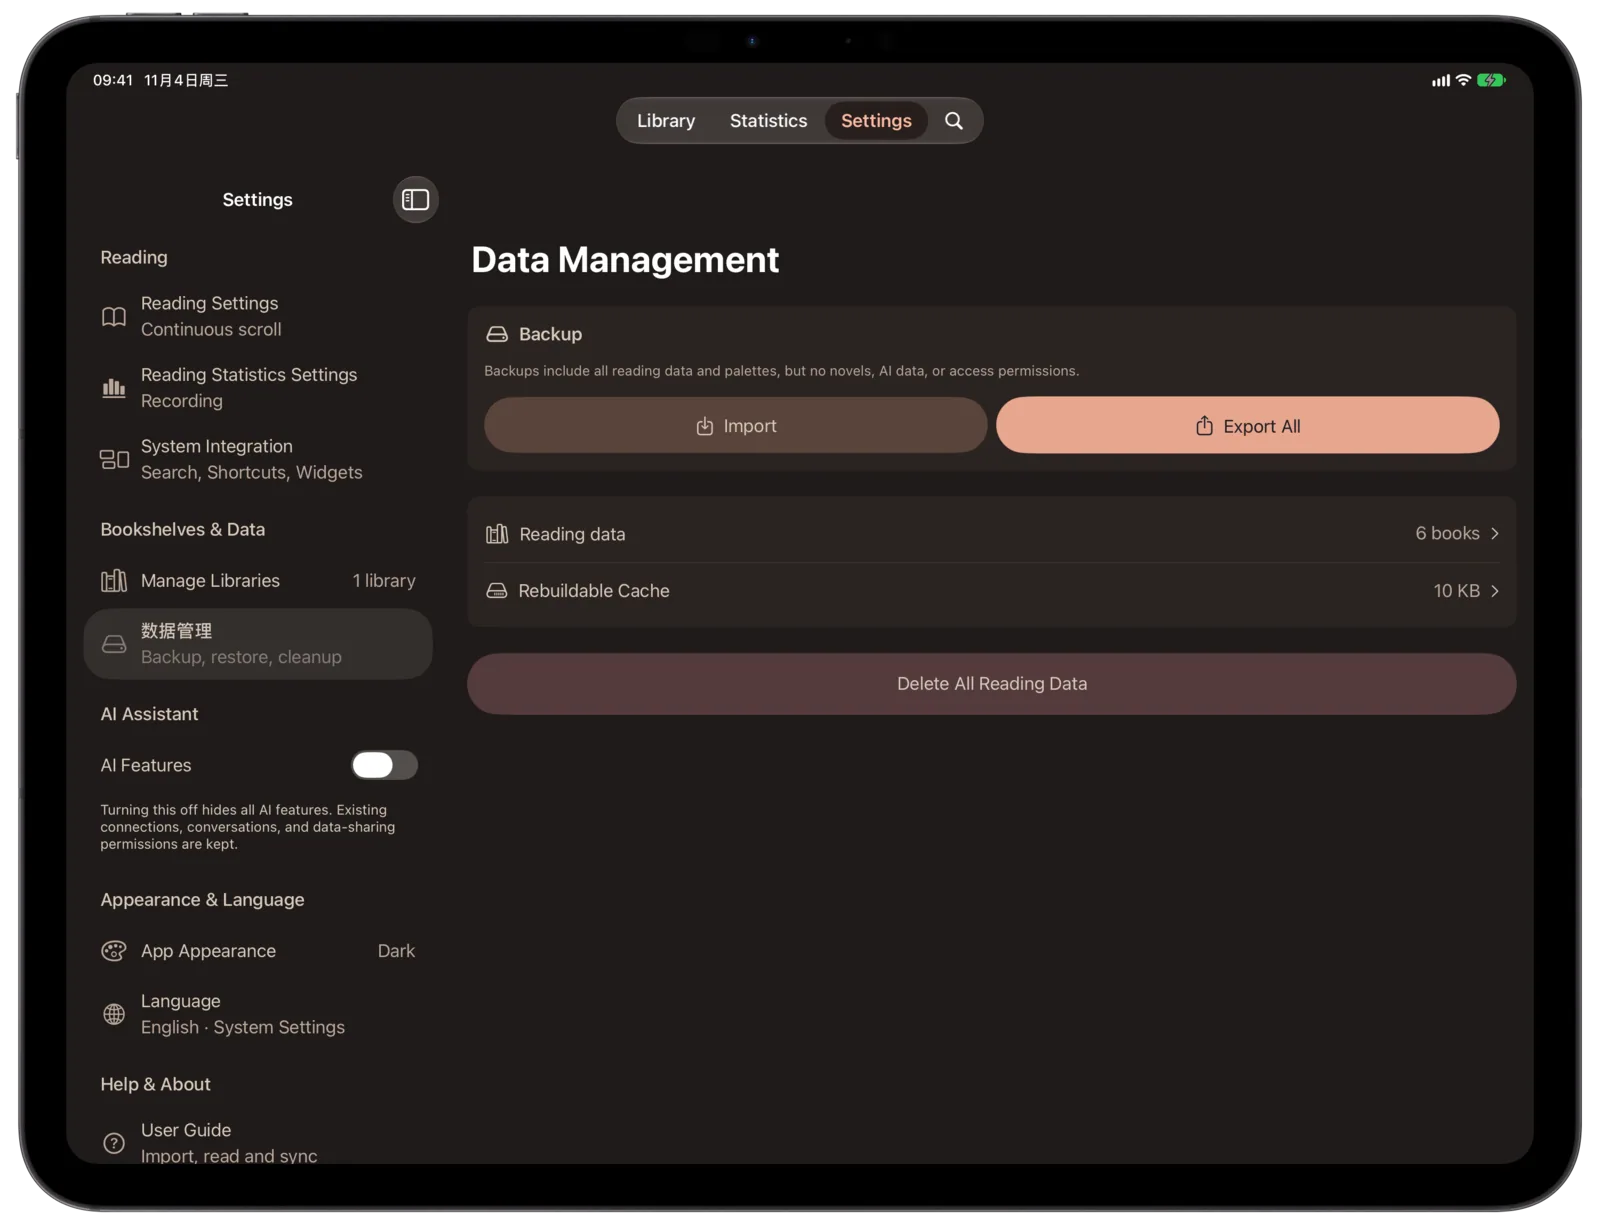
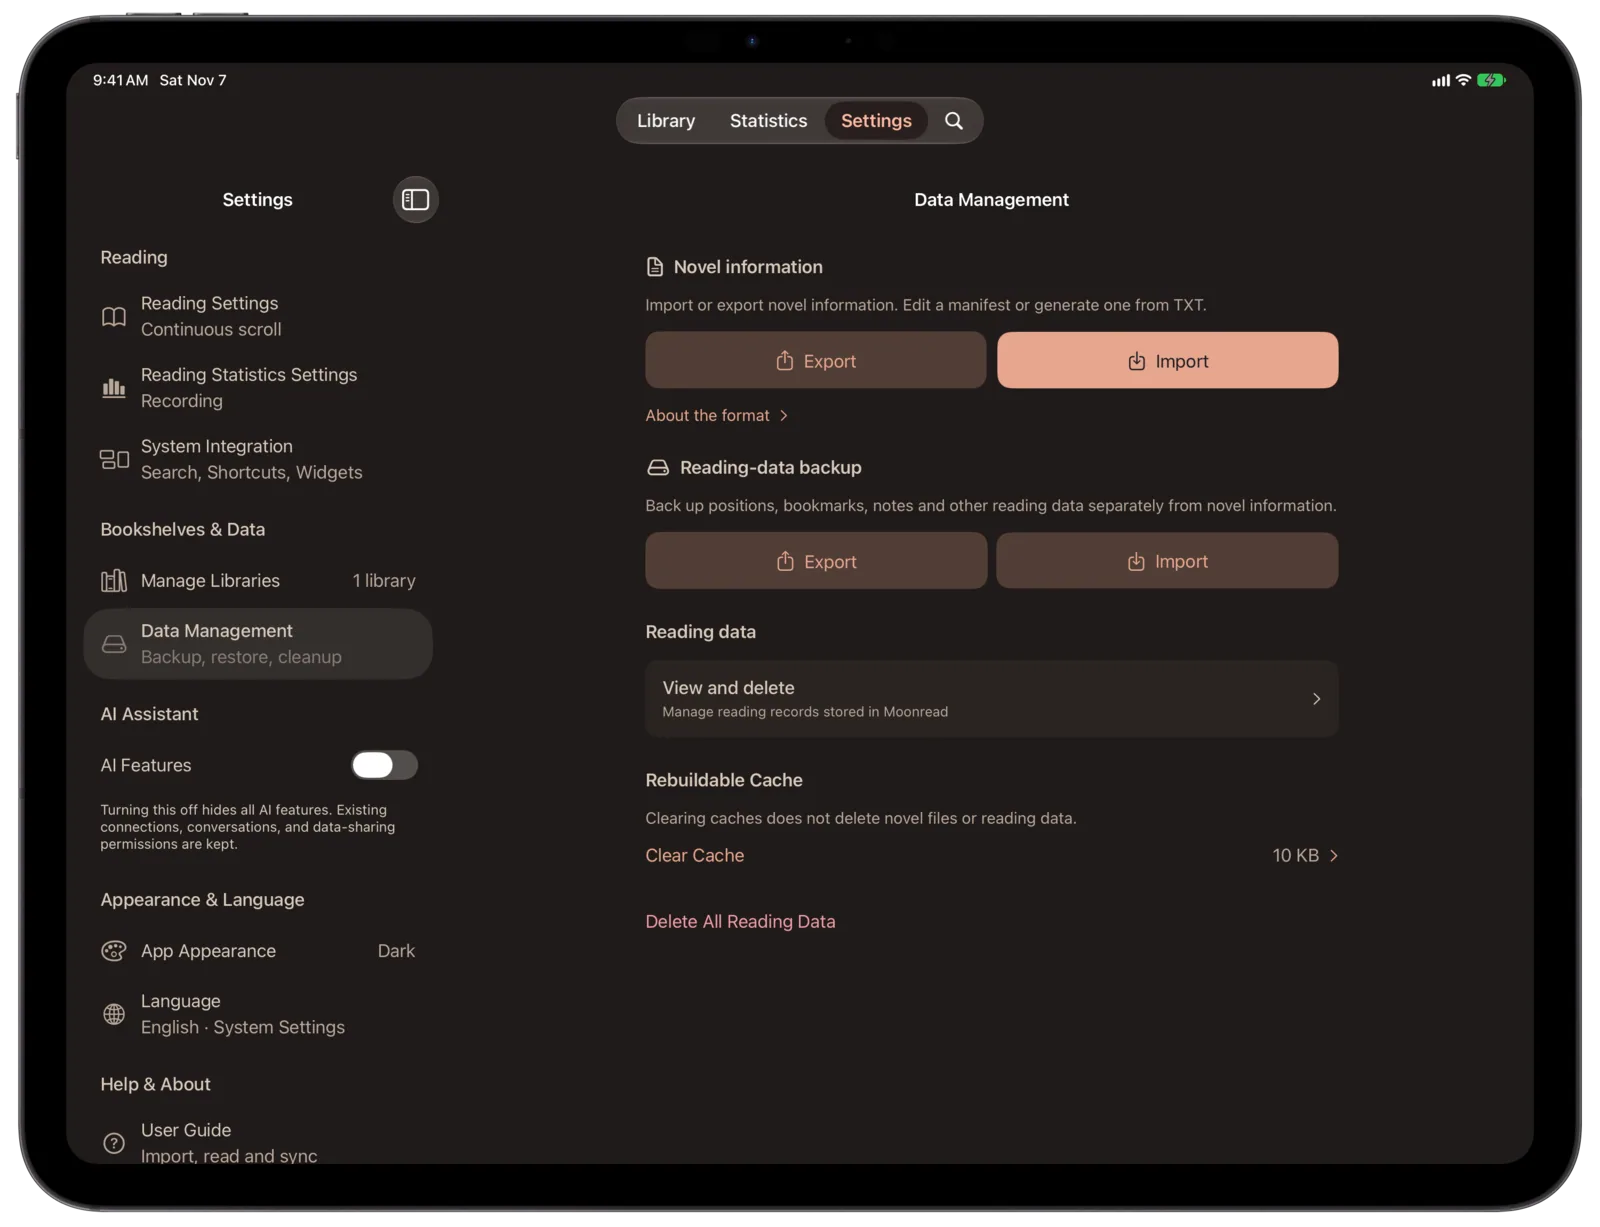
feat(site): 英文数据管理截图换用修复后的 1.5 新图 (#209)

diff --git a/docs/site/README.md b/docs/site/README.md
@@ -24,7 +24,7 @@ nix develop --no-update-lock-file -c zola --root docs/site build
 截图通过 `data/screenshots.json` 选择手机、Duo 内/外屏、iPad、语言与系统明暗；文件在 `static/images/screenshots/`。
 来源统一查 `build/Release/1.4-screenshots/sources.json` 中 `consumers` 含 `website` 的用途 ID；目录名不代表截图版本，以各项 `origin` 为准。只替换受已合并改动影响的画面，未变画面复用既有真实截图。1.5 已替换的槽位在 `data/screenshots.json` 记录源 ID、版本、SHA 与官方设备外框信息；完整原图嵌入对应 Apple 官方外框，尺寸不同只按比例缩放；原图不改动、不删除。官网和商店共用原图，不从宣传成图反裁，不借其他设备或语言、不反色冒充暗色。
 
-派生沿用本机 ImageMagick，无额外安装/构建脚本或前端框架。派生产出约480/960/1600宽 WebP，不上采样；没有原图的槽位明确标记 pending，不能拿其他设备替代。后续补图时先更新核验来源记录，再重新派生对应图片与数据。 原图登记仍带未通过的 `review` 标记时，不接入该新图；保留该槽位上一张已核验的截图，待修复后再替换。目前英文 R10 的手机、Duo 内屏与 iPad 明暗六槽沿用 1.4 原图。
+派生沿用本机 ImageMagick，无额外安装/构建脚本或前端框架。派生产出约480/960/1600宽 WebP，不上采样；没有原图的槽位明确标记 pending，不能拿其他设备替代。后续补图时先更新核验来源记录，再重新派生对应图片与数据。 原图登记仍带未通过的 `review` 标记时，不接入该新图；保留该槽位上一张已核验的截图，待修复后再替换。英文 R10 的手机、Duo 内屏与 iPad 明暗六槽已换用 1.5 本地化修复后的原图。
 
 本机 `zola serve` 不监听 `data/`，且会缓存 `load_data` 结果；更新截图索引后重启预览进程，再核验浏览器实际载入的数据。
 
